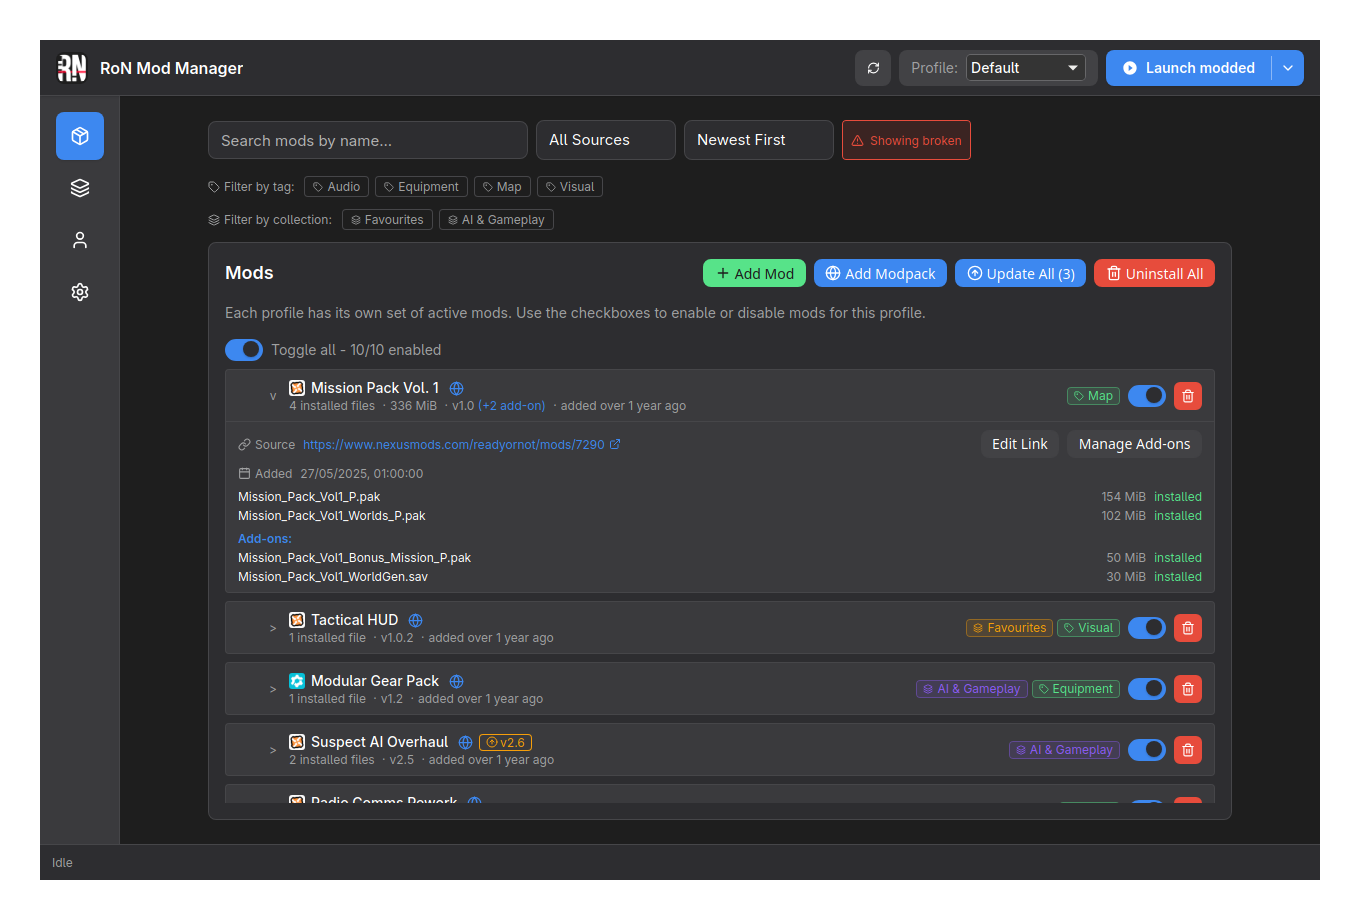
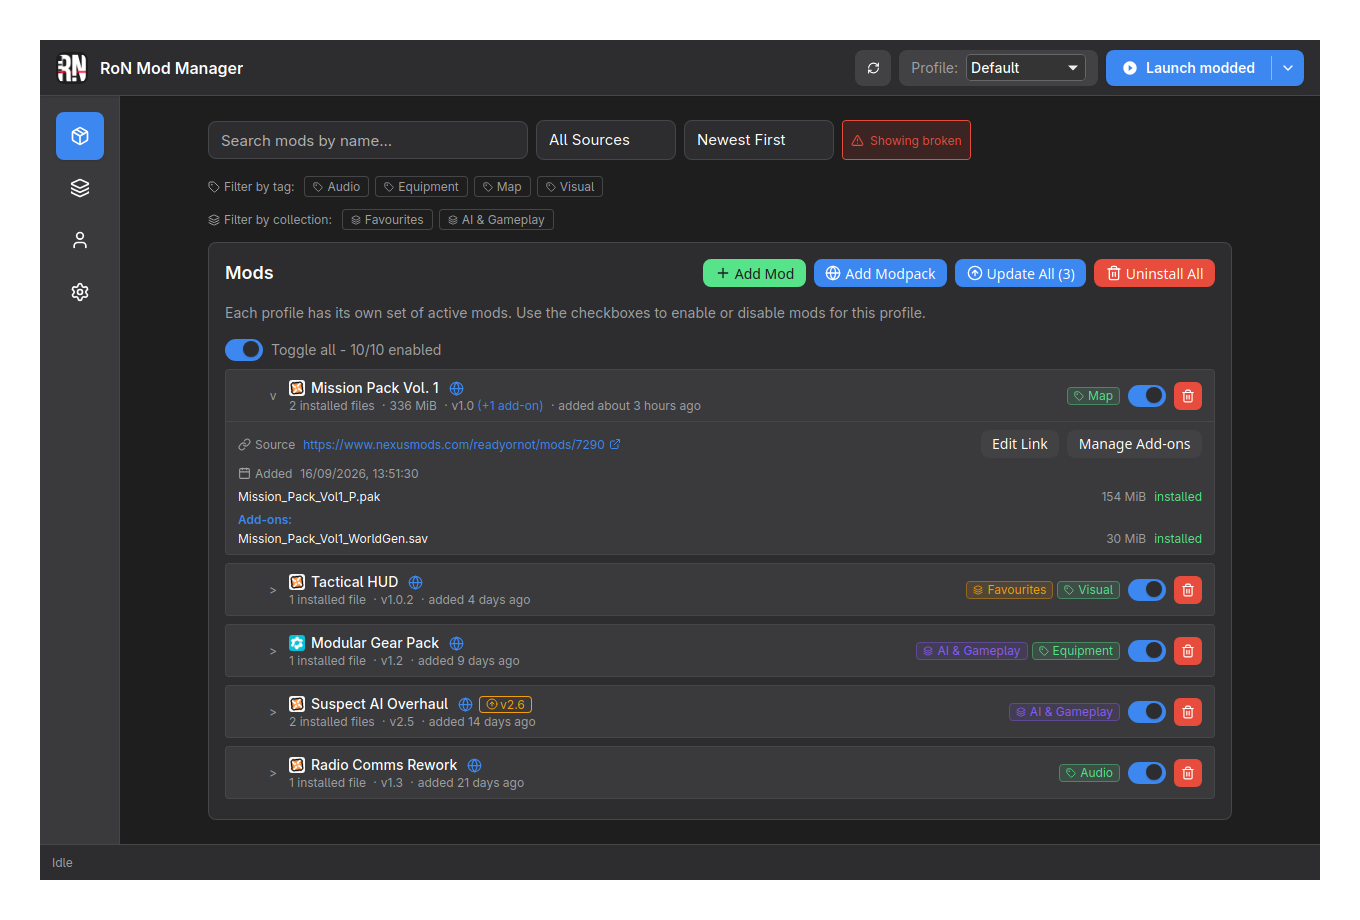
Trim Mission Pack Vol. 1 incognito dummy data and refresh mods screenshots

diff --git a/src/lib/stores/incognitoMode.ts b/src/lib/stores/incognitoMode.ts
@@ -8,13 +8,20 @@ export const screenshotMode = writable<boolean>(false);
 /// incognito data) - appropriate for a first-run setup wizard screenshot.
 export const wizardScreenshotMode = writable<boolean>(false);
 
+/// Unix timestamp (seconds) for `days` ago - keeps dummy "added x ago"
+/// labels fresh no matter when screenshots are taken.
+const daysAgo = (days: number) =>
+  Math.floor(Date.now() / 1000) - days * 24 * 60 * 60;
+const hoursAgo = (hours: number) =>
+  Math.floor(Date.now() / 1000) - hours * 60 * 60;
+
 export const DUMMY_MOD_GROUPS: InstalledModGroup[] = [
   {
     name: "Mission_Pack_Vol1",
     displayName: "Mission Pack Vol. 1",
     sourceUrl: "https://www.nexusmods.com/readyornot/mods/7290",
     managedByManifest: true,
-    installedAt: 1748304000,
+    installedAt: hoursAgo(3),
     installedVersion: "1.0",
     totalSize: 352321536,
     files: [
@@ -24,20 +31,8 @@ export const DUMMY_MOD_GROUPS: InstalledModGroup[] = [
         exists: true,
         size: 161061274,
       },
-      {
-        name: "Mission_Pack_Vol1_Worlds_P.pak",
-        path: "/mods/Mission_Pack_Vol1_Worlds_P.pak",
-        exists: true,
-        size: 107374182,
-      },
     ],
     addonFiles: [
-      {
-        name: "Mission_Pack_Vol1_Bonus_Mission_P.pak",
-        path: "/mods/Mission_Pack_Vol1_Bonus_Mission_P.pak",
-        exists: true,
-        size: 52428800,
-      },
       {
         name: "Mission_Pack_Vol1_WorldGen.sav",
         path: "/mods/Mission_Pack_Vol1_WorldGen.sav",
@@ -51,7 +46,7 @@ export const DUMMY_MOD_GROUPS: InstalledModGroup[] = [
     displayName: "CQB Tactics Pack",
     sourceUrl: "https://www.nexusmods.com/readyornot/mods/1042",
     managedByManifest: true,
-    installedAt: 1736899200,
+    installedAt: daysAgo(80),
     installedVersion: "1.4",
     totalSize: 134217728,
     files: [
@@ -68,7 +63,7 @@ export const DUMMY_MOD_GROUPS: InstalledModGroup[] = [
     displayName: "Urban Warfare Bundle",
     sourceUrl: "https://www.nexusmods.com/readyornot/mods/2187",
     managedByManifest: true,
-    installedAt: 1738540800,
+    installedAt: daysAgo(65),
     installedVersion: "2.0.1",
     totalSize: 356515840,
     files: [
@@ -91,7 +86,7 @@ export const DUMMY_MOD_GROUPS: InstalledModGroup[] = [
     displayName: "Realistic SWAT Equipment",
     sourceUrl: "https://mod.io/g/readyornot/m/realistic-swat-equipment",
     managedByManifest: false,
-    installedAt: 1740009600,
+    installedAt: daysAgo(50),
     installedVersion: "1.1",
     files: [
       {
@@ -106,7 +101,7 @@ export const DUMMY_MOD_GROUPS: InstalledModGroup[] = [
     displayName: "Breach and Clear Maps",
     sourceUrl: "https://www.nexusmods.com/readyornot/mods/3301",
     managedByManifest: true,
-    installedAt: 1741305600,
+    installedAt: daysAgo(40),
     installedVersion: "3.2",
     files: [
       {
@@ -131,7 +126,7 @@ export const DUMMY_MOD_GROUPS: InstalledModGroup[] = [
     displayName: "Night Vision Overhaul",
     sourceUrl: "https://mod.io/g/readyornot/m/nightvision-overhaul",
     managedByManifest: false,
-    installedAt: 1742601600,
+    installedAt: daysAgo(30),
     installedVersion: "1.0",
     files: [
       {
@@ -146,7 +141,7 @@ export const DUMMY_MOD_GROUPS: InstalledModGroup[] = [
     displayName: "Radio Comms Rework",
     sourceUrl: "https://www.nexusmods.com/readyornot/mods/4455",
     managedByManifest: true,
-    installedAt: 1744243200,
+    installedAt: daysAgo(21),
     installedVersion: "1.3",
     files: [
       {
@@ -161,7 +156,7 @@ export const DUMMY_MOD_GROUPS: InstalledModGroup[] = [
     displayName: "Suspect AI Overhaul",
     sourceUrl: "https://www.nexusmods.com/readyornot/mods/5123",
     managedByManifest: true,
-    installedAt: 1745539200,
+    installedAt: daysAgo(14),
     installedVersion: "2.5",
     files: [
       {
@@ -181,7 +176,7 @@ export const DUMMY_MOD_GROUPS: InstalledModGroup[] = [
     displayName: "Modular Gear Pack",
     sourceUrl: "https://mod.io/g/readyornot/m/modular-gear-pack",
     managedByManifest: false,
-    installedAt: 1746662400,
+    installedAt: daysAgo(9),
     installedVersion: "1.2",
     files: [
       {
@@ -196,7 +191,7 @@ export const DUMMY_MOD_GROUPS: InstalledModGroup[] = [
     displayName: "Tactical HUD",
     sourceUrl: "https://www.nexusmods.com/readyornot/mods/6078",
     managedByManifest: false,
-    installedAt: 1747612800,
+    installedAt: daysAgo(4),
     installedVersion: "1.0.2",
     files: [
       {
